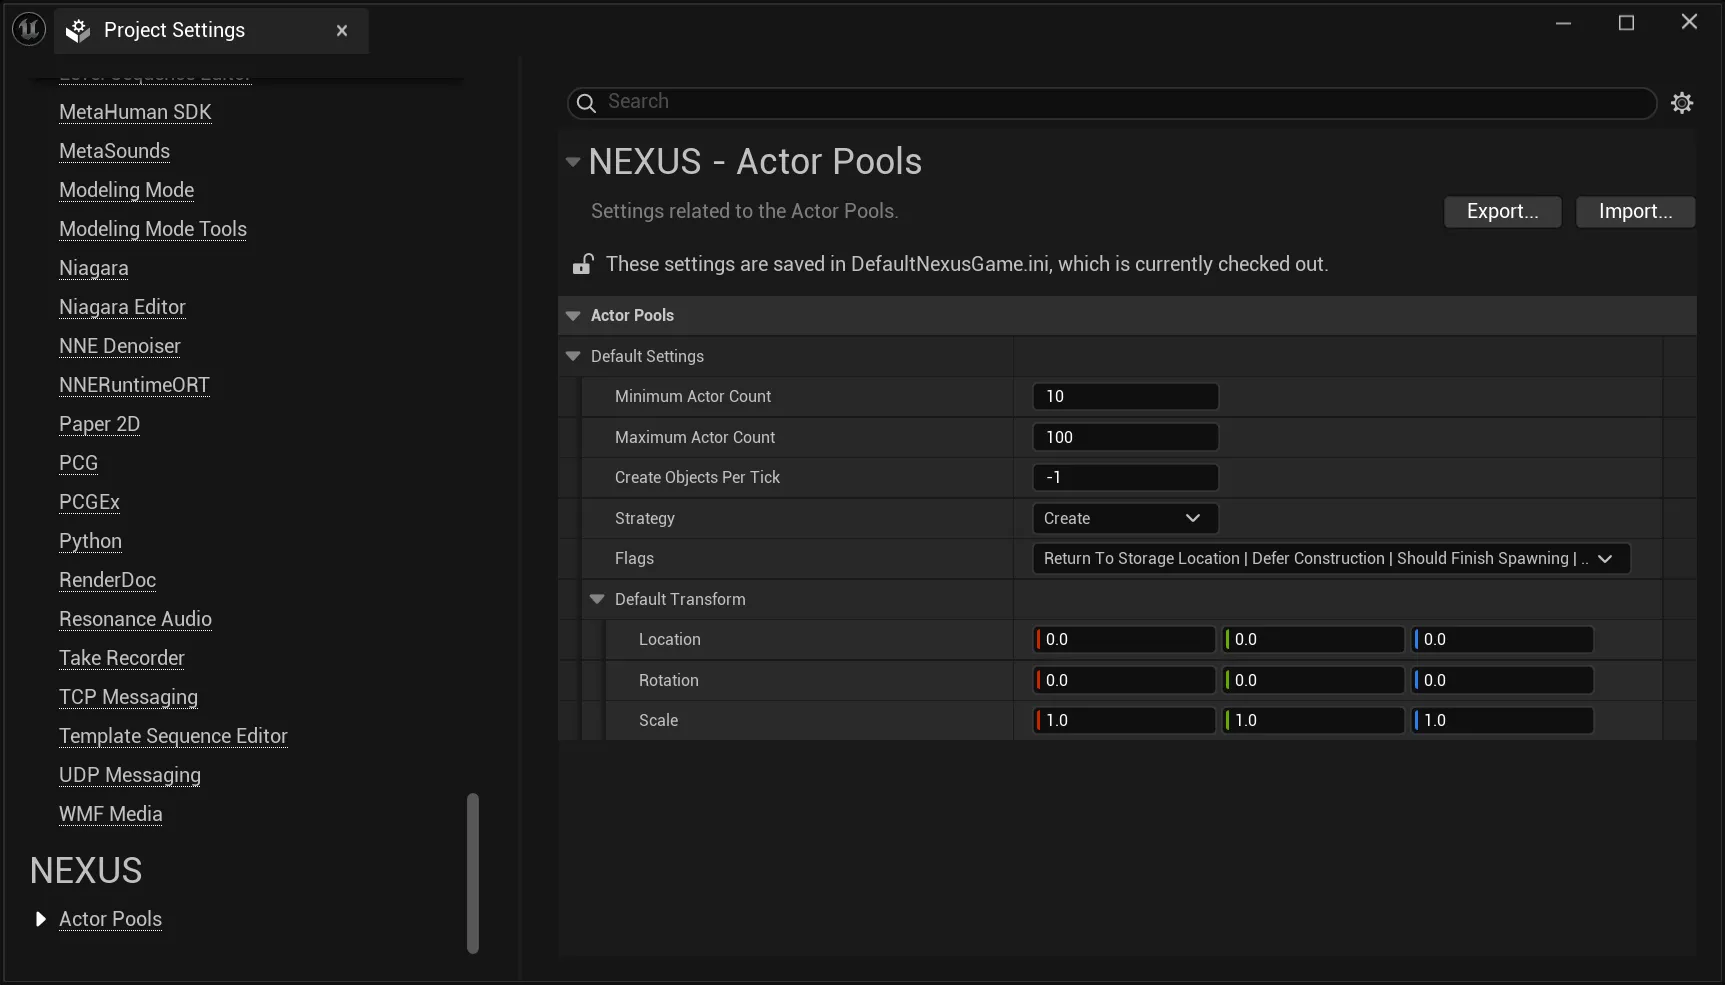
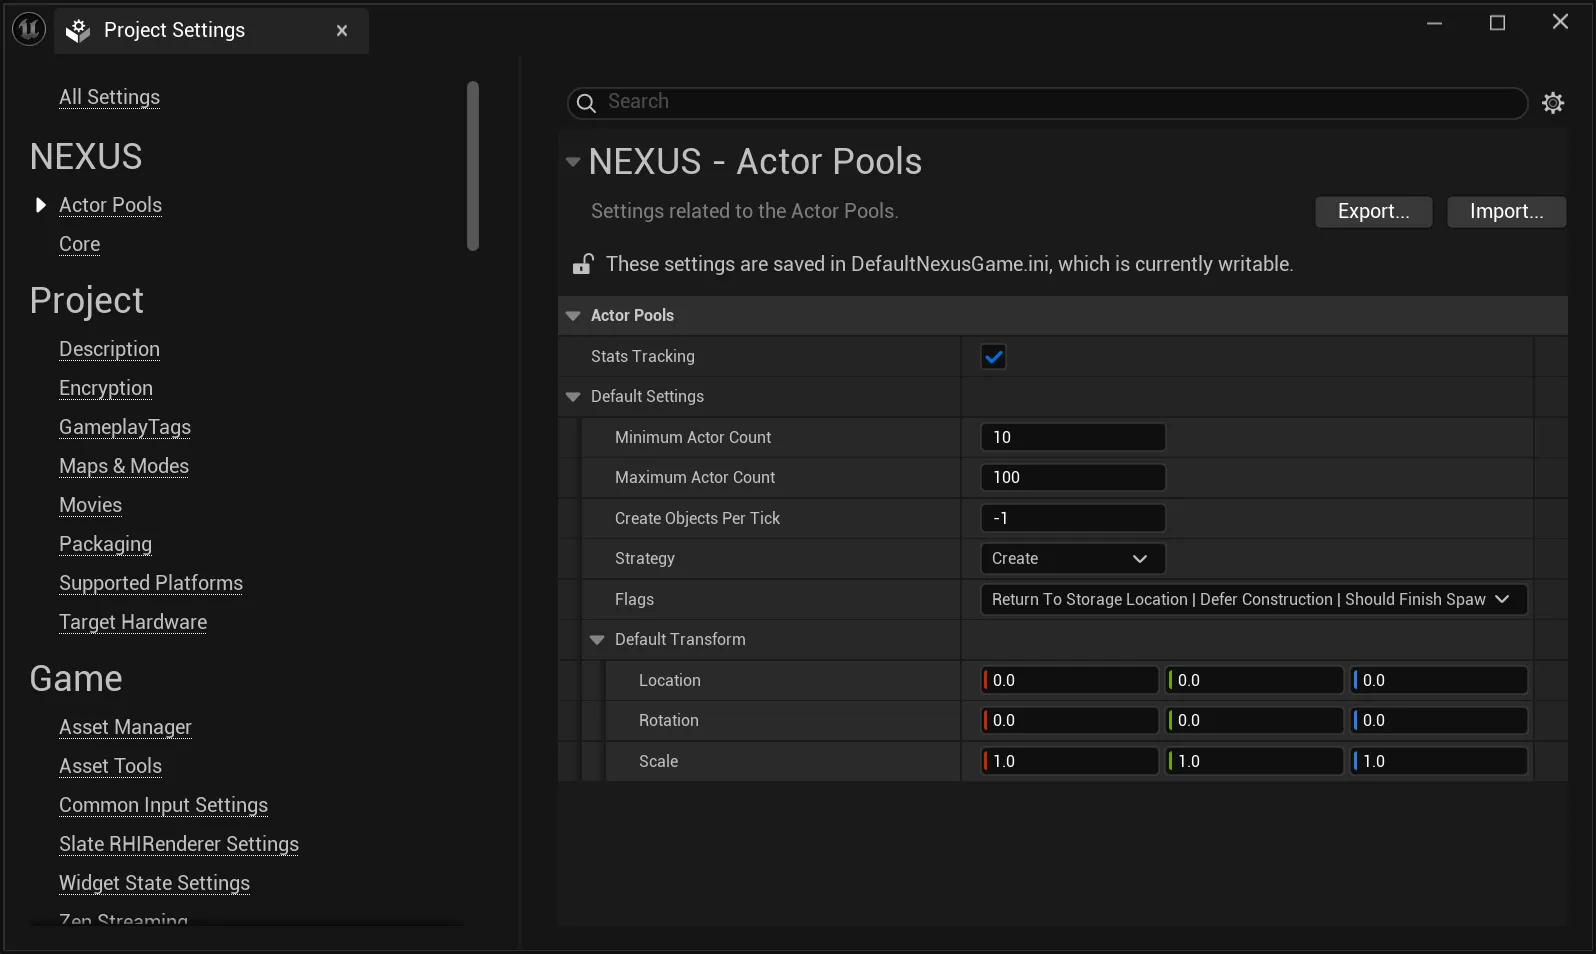
Add comment about stats

diff --git a/docs/plugins/actor-pools/faq.md b/docs/plugins/actor-pools/faq.md
@@ -19,3 +19,9 @@ The basic premise of making pooling work in a networked environment is to ensure
 :::tip
 The default [FNActorPoolSettings](types/actor-pool-settings.md) includes the `APF_ServerOnly` flag being set. This will ensure that all functionality will only execute on the server (world authority).
 :::
+
+## How can I see stats about the NActorPools in real time?
+
+Ensure that you have `Stats Tracking` turned on in your project's preferences for `NActorPools` (`Project Settings ... > NEXUS > Actor Pools`). 
+
+Then the `stats NActorPools` [command](console-commands.md) should show real-time pool usage statistics.

diff --git a/docs/plugins/actor-pools/console-commands.md b/docs/plugins/actor-pools/console-commands.md
@@ -1,0 +1,15 @@
+---
+sidebar_position: 9
+description: Some console commands for developers to use provided by NActorPools.
+---
+
+# Console Commands
+
+Some console commands for developers to use provided by NActorPools.
+
+## Developer
+
+|Command|Description|Flag(s)|Shippable|
+|:--|:--|:--|:--|
+|`stats NActorPools`| Toggles visibility of the `NActorPools` stat group. This option requires that the `Stat Tracking` setting be enabled for Actor Pools in the projects settings. |`ECVF_Default`|`Yes`|
+
